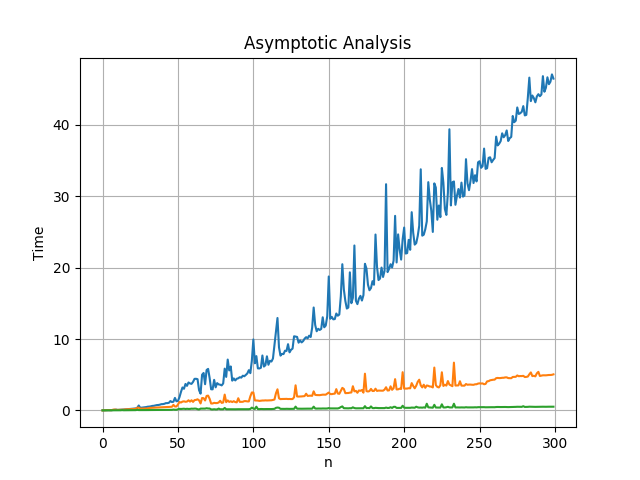
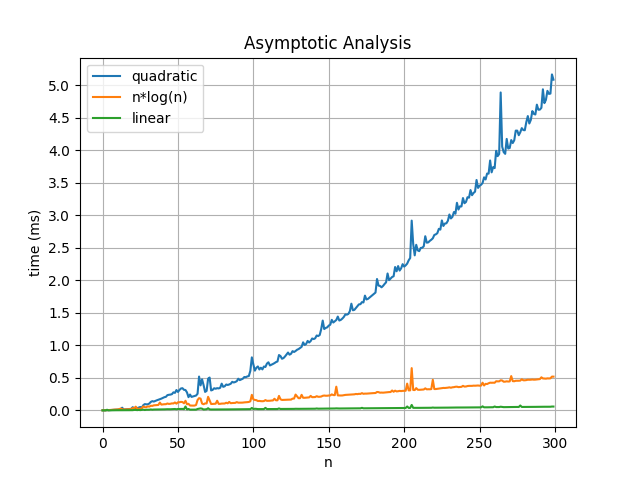
add legend and improved y axis

diff --git a/FindSummedPairThatEqualsTarget/workingFindSummedPairThatEqualsTarget.py b/FindSummedPairThatEqualsTarget/workingFindSummedPairThatEqualsTarget.py
@@ -69,14 +69,14 @@ def main():
 
     ax.set(xlabel="n", ylabel="time (ms)", title="Asymptotic Analysis")
     ax.grid()
-    fig.savefig("timeComplexityAnalysis.png")
     plt.legend()
+    fig.savefig("timeComplexityAnalysis.png")
+    fig.savefig("workingTimeComplexityAnalysis.png")
     plt.show()
     print("\n")
 
 
 def quadraticSolution(sequence, target): 
-    
     pairs = [(x, y) for x in sequence for y in sequence if(x+y == target)]    
     # print("Pairs O(n^2):\t   ", pairs)
 
